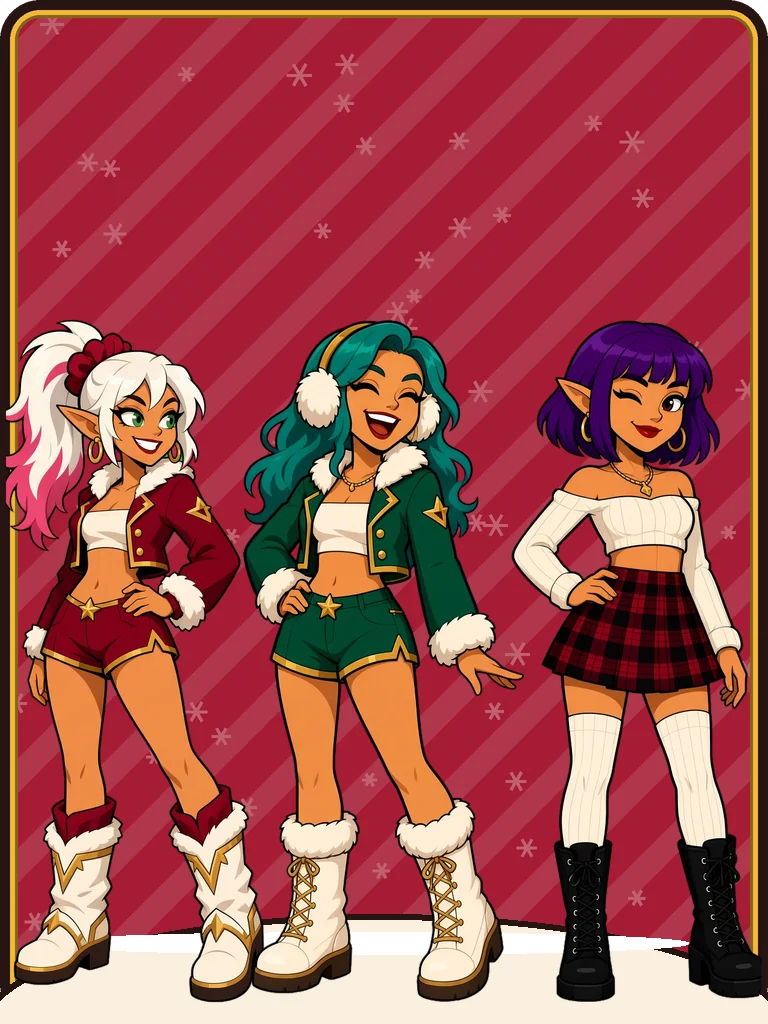
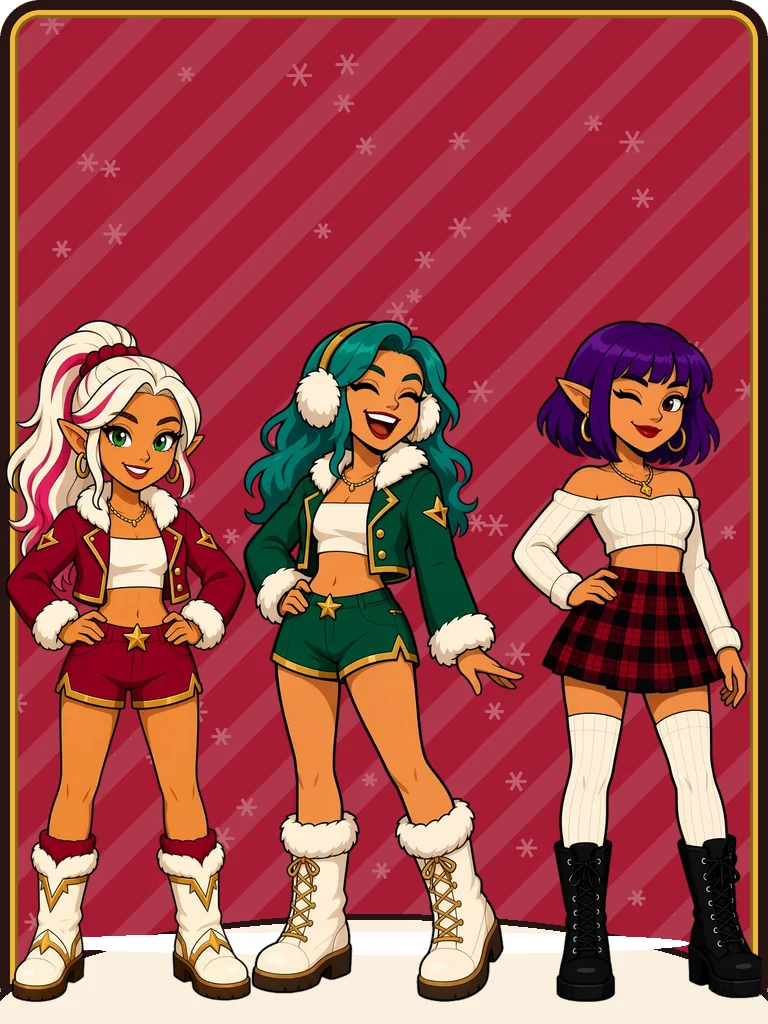
Roxy: frontal host pose facing the player, grounded on the floorboards with a contact shadow, gifts cleared from under her, win glance toward the reels

Changed region(s): [[0.0, 0.3125, 0.3438, 1.0]]

diff --git a/frontend/apps/elfhaus/static/elfhaus.css b/frontend/apps/elfhaus/static/elfhaus.css
@@ -277,7 +277,7 @@ body:not(.portrait).short #hud{max-width:none}
 .ov .badge{max-width:none;transform:none;translate:-50% 0;bottom:6px;font-size:max(11px,calc(var(--cell)*.12));padding:0 8px;z-index:3}
 
 /* ---------- full-body Roxy (animated sprite, roxy.ts) between the room and the game UI ---------- */
-/* resub: the room layer (scene/scene.ts, Pixi): foyer + motes + rig Roxy on ONE canvas sized to the design stage */
+/* resub: the room layer (scene/scene.ts, Pixi): lodge + snow + rig Roxy on ONE canvas sized to the design stage */
 #scene{position:fixed;left:0;top:0;pointer-events:none;display:block}
 /* portrait: Roxy stands behind the game, so the reel plate (recess wall + board tint) is semi-transparent there */
 body.portrait.hasRoxy #alcoveRecess{opacity:.6} body.portrait.hasRoxy #board{background:transparent}
@@ -705,7 +705,7 @@ body:not(.portrait) #bigwin.chars .bw { top: calc(-17*var(--vh)); }
 html{background:#2A2533}
 #root{position:fixed;left:0;top:0;width:var(--dw,100vw);height:var(--dh,100vh);overflow:hidden;transform-origin:0 0;
   transform:translate(var(--ox,0),var(--oy,0)) scale(var(--s,1));contain:layout size}
-/* Dare Card flip (cardflip.ts): sprite card centred over the board, outcome name pops under it */
+/* Ski Pass flip (cardflip.ts): sprite card centred over the board, outcome name pops under it */
 #cardFlip{cursor:pointer;transition:opacity .25s} #cardFlip.out{opacity:0}
 #cardFlip .cfStage{position:relative;display:flex;flex-direction:column;align-items:center;gap:calc(var(--cell)*.12)}
 #cardFlip .cfCard{position:relative;width:calc(var(--cell)*2.4);aspect-ratio:240/320}
@@ -833,7 +833,7 @@ body.tb .modal.bm{width:min(860px,calc(94*var(--vw)/var(--tbm)))}
 .mx::before{content:"";position:absolute;left:-10%;top:-28%;width:62%;height:156%;z-index:-2;pointer-events:none;
   background:radial-gradient(closest-side,#2A0F24a6 30%,#2A0F2400)}
 .ov .mx.rGem{z-index:6}
-/* bonus-buy cards: Double / Triple Dare crops are top-weighted like EGW (heads + faces looking back, upper body, WILD tattoo); EGW (WF, 1 x 4 cells) shows her head too */
+/* bonus-buy cards: Black Diamond / Double Black crops are top-weighted like EGW (heads + faces looking back, upper body, WILD tattoo); EGW (WF, 1 x 4 cells) shows her head too */
 .bcard[data-m="double_dare"] .bArt img{object-position:50% 16%} .bcard[data-m="triple_dare"] .bArt img{object-position:50% 6%}
 .bArt.tall img{object-position:50% 14%}
 
@@ -999,9 +999,9 @@ canvas.wfxRing{display:none}
 #loader[data-o="port"] .spCard .spArt{width:300px;height:300px;flex:none}
 #loader[data-o="port"] .spCard h3{font-size:46px} #loader[data-o="port"] .spCard p{font-size:28px}
 #loader.in .spPanel{animation-duration:.6s}
-/* the painted TAP TO PARTY plate carries four-point star sparkles (audit 1): a plain lettered button instead, calm pulse */
+/* the painted TAP TO START plate carries four-point star sparkles (audit 1): a plain lettered button instead, calm pulse */
 #loader #lGo img{display:none}
-#loader #lGo::after{content:"TAP TO PARTY";display:block;box-sizing:border-box;padding:22px 0 20px;border:2px solid #4A2D58;border-radius:14px;
+#loader #lGo::after{content:"TAP TO START";display:block;box-sizing:border-box;padding:22px 0 20px;border:2px solid #4A2D58;border-radius:14px;
   background:linear-gradient(#2a1934f0,#1a0f21f0);font:800 34px/1 "Cinzel";letter-spacing:.08em;color:#FBEAF4;text-align:center}
 #loader #lGo{animation:tapPulse 2.2s ease-in-out infinite alternate}
 @keyframes tapPulse{from{opacity:.75;transform:scale(.985)}to{opacity:1;transform:scale(1.015)}}

diff --git a/frontend/apps/elfhaus/src/game/roxyrig/rigChalet.ts b/frontend/apps/elfhaus/src/game/roxyrig/rigChalet.ts
@@ -8,11 +8,11 @@ import { loadTex } from '../scene/load';
 import type { RoxyAdapter, RoxyFace, RoxyGrade } from './types';
 
 const SRC = 'assets/rig/elf_roxy.webp';
-const W = 486, H = 1204, GROUND = 1197, CX = 243;          // cutout px; origin between the feet on the ground row
-const NECK = { x: 278, y: 252 }, HIPS = 600, CHEST = [300, 520] as const;
-const HAIR = { x1: 175, y1: 520 };                           // ponytail box (left of her head)
+const W = 429, H = 1166, GROUND = 1156, CX = 220;          // cutout px; origin between the feet on the ground row
+const NECK = { x: 228, y: 300 }, HIPS = 560, CHEST = [330, 470] as const;
+const HAIR = { x1: 130, y1: 470 };                           // ponytail box (screen left of her head)
 // eye openings (cutout px): x, y (lid top), w, h; R = her left (screen right), winks
-const EYES = [{ x: 210, y: 154, w: 64, h: 46 }, { x: 294, y: 160, w: 46, h: 40 }];
+const EYES = [{ x: 170, y: 187, w: 57, h: 36 }, { x: 250, y: 190, w: 47, h: 37 }];
 const SKIN = 0xe9874a, INK = 0x26140f, LASH = 0x1a0d0a;
 const VX = 10, VY = 36;
 
@@ -26,7 +26,10 @@ type Shot = { t: number; dur: number; kind: 'win' | 'bonus' | 'sad' | 'surp' };
 export async function createRoxy(): Promise<RoxyAdapter> {
 	const tex: Texture = await loadTex(SRC);
 	const view = new Container(), body = new Container();
-	const shadowG = new Graphics().ellipse(0, 0, 150, 26).fill({ color: INK, alpha: 0.28 });
+	// contact shadow under the boots: a soft outer pool + a darker core, offset a touch right (the fire lights from the left)
+	const shadowG = new Graphics();
+	for (let k = 0; k < 6; k++) { const t = k / 5; shadowG.ellipse(14 - 6 * t, -2 - 2 * t, 250 - 70 * t, 34 - 14 * t).fill({ color: 0x0c0402, alpha: 0.2 }); }
+	for (const fx of [-92, 104]) for (let k = 0; k < 3; k++) shadowG.ellipse(fx, -6, 74 - 12 * k, 15 - 3 * k).fill({ color: 0x080201, alpha: 0.24 });
 	const mesh = new MeshPlane({ texture: tex, verticesX: VX, verticesY: VY });
 	mesh.position.set(-CX, -GROUND);
 	body.addChild(mesh);
@@ -106,7 +109,8 @@ export async function createRoxy(): Promise<RoxyAdapter> {
 				}
 				// hip shake after landing
 				if (hu >= 1) hip += Math.sin((u - 0.55) * 34) * 1.1 * Math.max(0, 1 - (u - 0.55) / 0.45);
-				head += Math.sin(u * Math.PI) * 0.06;
+				// a quick glance / lean toward the reels (screen left), then back to the camera
+				head += -Math.sin(Math.min(1, u * 1.6) * Math.PI) * 0.08; lean += -Math.sin(Math.min(1, u * 1.6) * Math.PI) * 0.025;
 			} else if (s.kind === 'sad') { const e = Math.sin(u * Math.PI); nod += 1.2 * e; head += 0.05 * e; hip *= 1 - e; }
 			else if (s.kind === 'surp') { const e = outBack(Math.min(1, u * 3)) * (1 - sm(0.6, 1, u)); sq = 1 + 0.04 * e; }
 		}

diff --git a/frontend/apps/elfhaus/src/game/scene/scene.ts b/frontend/apps/elfhaus/src/game/scene/scene.ts
@@ -145,7 +145,7 @@ export function placeScene(portrait: boolean, fr: DOMRect) {
 		const k = g.k, X = (x: number) => g.ox + x * k, Y = (y: number) => g.oy + y * k;
 		let x: number, feet: number, s: number;
 		if (g.mode === 'cmp') { x = X(g.cmp.x); feet = Y(g.cmp.y); s = g.cmp.s * f * k; }
-		else { x = X(1536); feet = Y(896); s = 1.3 * f * k; }
+		else { x = X(1530); feet = Y(872); s = 1.3 * f * k; }   // boots on the floorboards in front of the window wall, clear of the tree skirt
 		if (!hold) { R.view.position.set(x, feet); R.view.scale.set(s); }
 		roxyL.visible = true; clipRoxy(null); R.shadow(true);
 		Object.assign(roxyAt, { x, y: feet, s, portrait });
